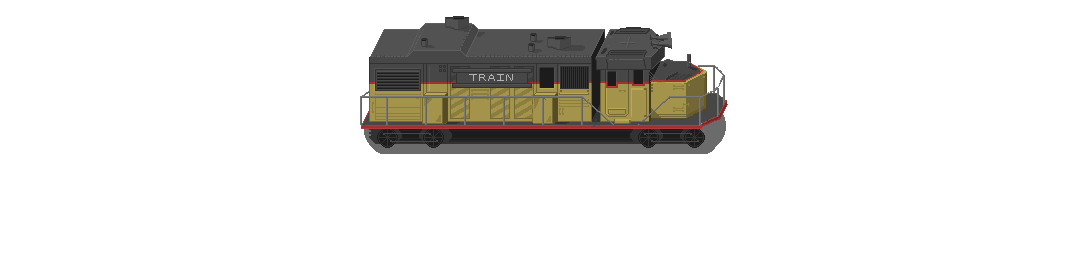
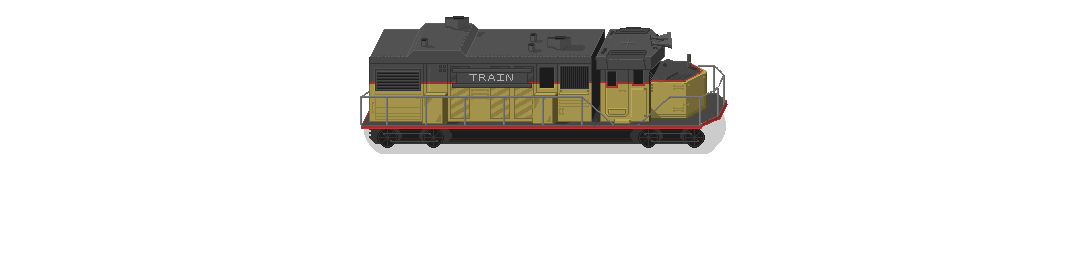
moving trains in menu

Changed region(s): [[0.3438, 0.4688, 0.6875, 0.625], [0.3125, 0.5, 0.3438, 0.5625]]

diff --git a/src/scenes/Menu.js b/src/scenes/Menu.js
@@ -51,8 +51,8 @@ class Menu extends Phaser.Scene {
 
         //background 
         this.background = this.add.tileSprite(0, 0, game.config.width, game.config.height, 'field_background').setOrigin(0, 0).setDepth(-2);
-        this.tree1 = this.add.image(200, 600, 'field_deadly_obstacle');
-        this.tree2 = this.add.image(1600, 150, 'field_deadly_obstacle');
+        this.tree1 = this.add.image(200, 600, 'field_deadly_obstacle').setDepth(2);
+        this.tree2 = this.add.image(1600, 150, 'field_deadly_obstacle').setDepth(2);
 
         //tracks behind title
         this.add.image(0, topGap, 'back_straight_track').setOrigin(0, 0.5).setDepth(-1);
@@ -69,10 +69,30 @@ class Menu extends Phaser.Scene {
         this.add.image(0, this.startButton.y + buttonGap, 'back_out-down_track').setOrigin(0, 0.5).setDepth(-1);
         this.add.image(0, topGap, 'back_out-up_track').setOrigin(0.5, 0.5).setDepth(-1);
         //trains
-        this.locomotiveA = this.add.image(200, topGap, 'basic_locomotive').setOrigin(0.5);
+        this.locomotiveA = this.add.image(-300, topGap, 'basic_locomotive').setOrigin(0.5).setDepth(1);
         this.locomotiveB = this.add.image(game.config.width, this.titleBar.y + buttonGap*3, 'basic_locomotive').setOrigin(.85, 0.5);
         this.wagonB1 = this.add.image(game.config.width + 350, this.titleBar.y + buttonGap*3, 'basic_passenger_wagon').setOrigin(.85, 0.5);
         this.locomotiveB.flipX = true;
         this.wagonB1.flipX = true;
+    }
+
+    update(){
+        this.locomotiveA.x += 3.5;
+        if (this.locomotiveA.x > game.config.width*1.2){
+
+            if (this.locomotiveA.y == this.titleBar.y){
+                this.locomotiveA.y = this.optionsButton.y;
+            } else {
+                this.locomotiveA.y = this.titleBar.y;
+            }
+            this.locomotiveA.x = -120;
+        }
+
+        this.locomotiveB.x -= 5;
+        this.wagonB1.x -= 5;
+        if (this.wagonB1.x <= -120){
+            this.locomotiveB.x = game.config.width * 1.5;
+            this.wagonB1.x = game.config.width * 1.5 + 350;
+        }
     }
 }
